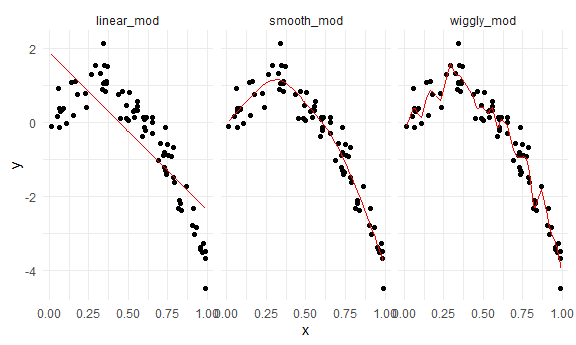
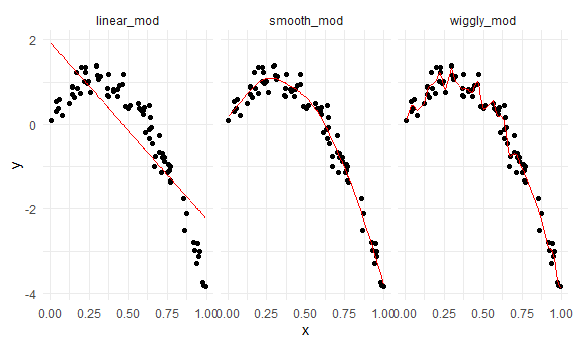
cross validation using modelr

diff --git a/cross_validation.md b/cross_validation.md
@@ -72,16 +72,131 @@ Look at prediction accuracy
 rmse(linear_mod, test_df)
 ```
 
-    ## [1] 0.7731731
+    ## [1] 0.8668018
 
 ``` r
 rmse(wiggly_mod, test_df)
 ```
 
-    ## [1] 0.3236872
+    ## [1] 0.2891189
 
 ``` r
 rmse(smooth_mod, test_df)
 ```
 
-    ## [1] 0.2329831
+    ## [1] 0.2613737
+
+Cross Validation using 'modelr'
+-------------------------------
+
+``` r
+cv_df = 
+  crossv_mc(nonlin_df, 100)
+```
+
+What is happening here...
+
+``` r
+cv_df %>% pull(train) %>% .[[1]] %>% as_tibble()
+```
+
+    ## # A tibble: 79 x 3
+    ##       id      x      y
+    ##    <int>  <dbl>  <dbl>
+    ##  1     1 0.375   1.18 
+    ##  2     2 0.572   0.378
+    ##  3     3 0.891  -2.16 
+    ##  4     4 0.297   1.39 
+    ##  5     5 0.0516  0.378
+    ##  6     6 0.979  -3.73 
+    ##  7     8 0.760  -0.944
+    ##  8     9 0.227   1.22 
+    ##  9    10 0.938  -2.61 
+    ## 10    11 0.444   0.920
+    ## # ... with 69 more rows
+
+``` r
+cv_df %>% pull(test) %>% .[[1]] %>% as_tibble()
+```
+
+    ## # A tibble: 21 x 3
+    ##       id       x       y
+    ##    <int>   <dbl>   <dbl>
+    ##  1     7 0.00457  0.0977
+    ##  2    12 0.768   -1.33  
+    ##  3    19 0.736   -0.792 
+    ##  4    26 0.154    0.634 
+    ##  5    29 0.886   -2.45  
+    ##  6    35 0.926   -2.98  
+    ##  7    39 0.604    0.561 
+    ##  8    43 0.873   -2.11  
+    ##  9    48 0.857   -1.75  
+    ## 10    56 0.771   -0.993 
+    ## # ... with 11 more rows
+
+``` r
+cv_df = 
+  cv_df %>% 
+  mutate(
+    train = map(train, as_tibble),
+    test = map(test,as_tibble)
+  )
+```
+
+Let's try to fit models and get RMSE for them
+
+``` r
+cv_df = 
+  cv_df %>% 
+    mutate(
+      linear_mod = map(.x = train, ~lm(y~x, data = .x)),
+      smooth_mod = map(.x = train, ~gam(y~s(x), data = .x)),
+      wiggly_mod = map(.x = train, ~gam(y~s(x, k = 30), sp = 10e-6, data = .x))
+    ) %>% 
+    mutate(
+      rmse_linear = map2_dbl(.x = linear_mod, .y = test, ~rmse(model = .x, data = .y)),
+      rmse_smooth = map2_dbl(.x = smooth_mod, .y = test, ~rmse(model = .x, data = .y)),
+      rmse_wiggly = map2_dbl(.x = wiggly_mod, .y = test, ~rmse(model = .x, data = .y))
+      )
+```
+
+What do these results say about model choice?
+
+``` r
+cv_df %>% 
+  select(starts_with('rmse')) %>% 
+  pivot_longer(
+    everything(),
+    names_to = 'model', 
+    values_to = 'rmse',
+    names_prefix = 'rmse_'
+  ) %>% 
+  ggplot(aes(x = model, y = rmse)) +
+  geom_violin()
+```
+
+<img src="cross_validation_files/figure-markdown_github/unnamed-chunk-12-1.png" width="90%" />
+
+Compute averages
+
+``` r
+cv_df %>% 
+  select(starts_with('rmse')) %>% 
+  pivot_longer(
+    everything(),
+    names_to = 'model', 
+    values_to = 'rmse',
+    names_prefix = 'rmse_'
+  ) %>% 
+  group_by(model) %>% 
+  summarise(avg_rmse = mean(rmse))
+```
+
+    ## `summarise()` ungrouping output (override with `.groups` argument)
+
+    ## # A tibble: 3 x 2
+    ##   model  avg_rmse
+    ##   <chr>     <dbl>
+    ## 1 linear    0.802
+    ## 2 smooth    0.249
+    ## 3 wiggly    0.280
